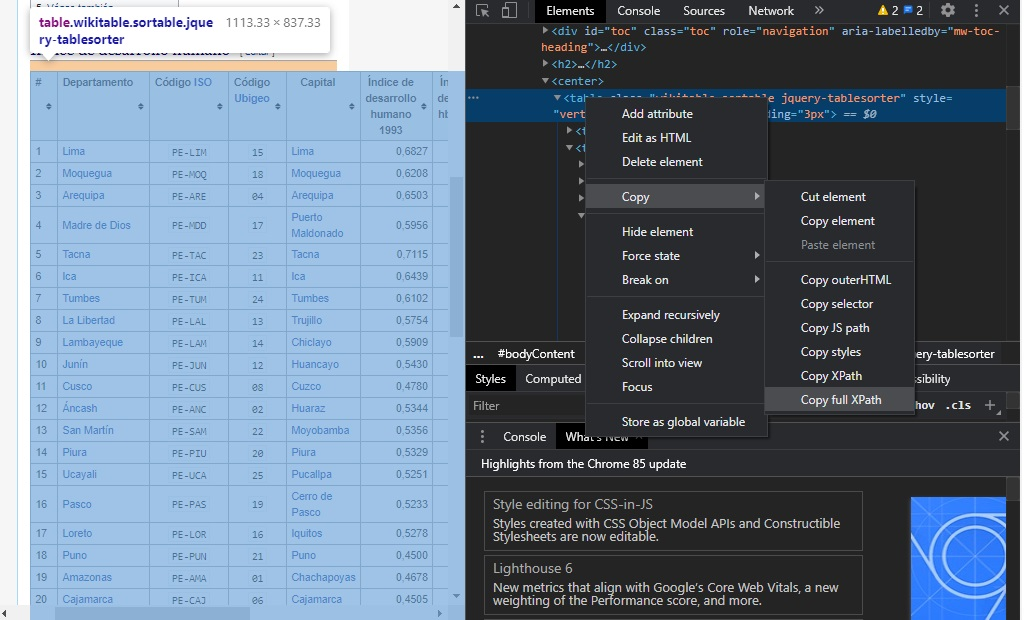
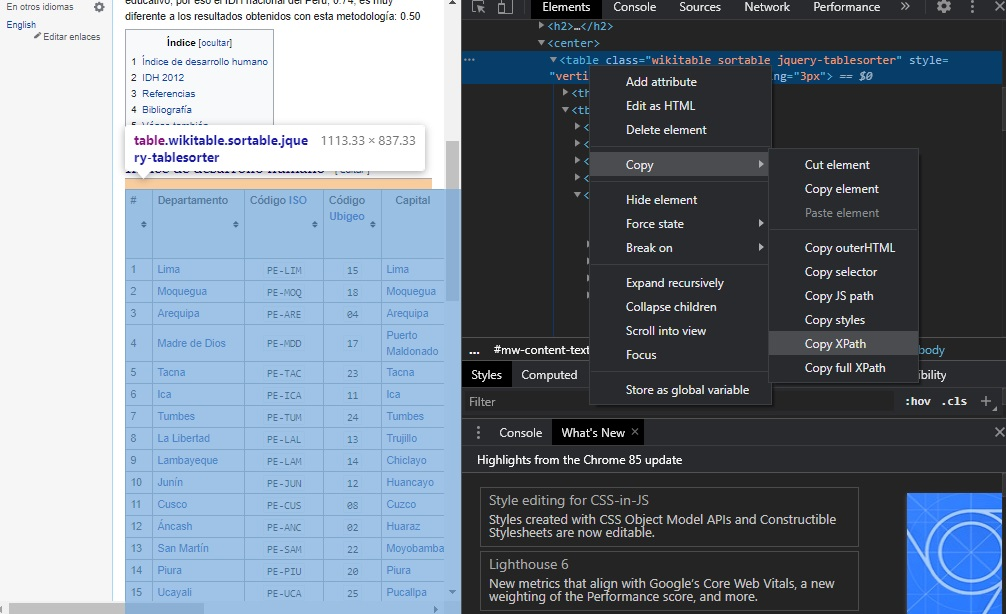
a

diff --git a/content/courses/Manual/3.5 scrap.md b/content/courses/Manual/3.5 scrap.md
@@ -56,7 +56,7 @@ Pues bien, luego de poner click derecho sobre nuestra tabla vamos ubicando el cu
 
 ![Image](/cursos/3-5-3.jpg)
 
-Luego de eso, damos click derecho sobre ese código, seleccionamos *Copy* y *Copy full Xpath*.
+Luego de eso, damos click derecho sobre ese código, seleccionamos *Copy* y *Copy Xpath*.
 
 ![Image](/cursos/3-5-4.jpg)
 
@@ -64,7 +64,7 @@ El *Xpath* es como si fuese una ubicación del objeto que queremos extraer dentr
 
 Vemos que en este caso lo que copiamos es lo siguiente: 
 
-  /html/body/div[3]/div[3]/div[5]/div[1]/center/table
+![Image](/cursos/3-5-5.jpg)
 
 ## Paso 3: Utilizar el paquete *htmltab*
 
@@ -75,7 +75,11 @@ Una vez identificado la dirección de la página web y el *Xpath* del elemento q
 Creamos dos objetos. Primero un objeto que sea el link de la página web y otro objeto que sea el código Xpath.
 
     link_de_pagina= "https://es.wikipedia.org/wiki/Anexo:Departamentos_del_Per%C3%BA_por_IDH"
-    codigoXPATH ="/html/body/div[3]/div[3]/div[5]/div[1]/center/table"
+    codigoXPATH ='//*[@id="mw-content-text"]/div[1]/center/table'
+
+{{% alert note %}}
+Cuidado: Si observas bien, en un caso hemos usado las "" y en otro ''. Debes recordar que en el caso del Xpath vamos a utilizar las comillas simples. Estas se pueden incluir presionando ALT + 39.
+{{% /alert %}}
 
 Luego, aplicamos la función htmltab en la cual le indicamos, en primer lugar, la dirección de la página (doc = link_de_página) y la ubicación del objeto que queremos extraer (which =codigoXPATH). A la base de datos extraída le daremos el nombre de data_IDH
 
@@ -98,4 +102,22 @@ Para finalizar vemos que en la parte superior derecha de nuestro entorno de trab
     ## [11] "Ã\215ndice de desarrollo humano 2012 â\200‹"
     ## [12] "Ã\215ndice de desarrollo humano 2019 â\200‹"
 
-Ya tenemos nuestra tabla de IDH como un objeto en nuestro R Studio. 
+También le podemos aplicar el comando str() para ver la estructura de nuestro data.frame:
+
+    str(data_IDH)
+
+    ## 'data.frame':    24 obs. of  12 variables:
+    ##  $ #                                    : chr  "1" "2" "3" "4" ...
+    ##  $ Departamento                         : chr  "Lima" "Moquegua" "Arequipa" "Madre de Dios" ...
+    ##  $ CÃ³digoÂ ISO                         : chr  "PE-LIM" "PE-MOQ" "PE-ARE" "PE-MDD" ...
+    ##  $ CÃ³digo Ubigeo                       : chr  "15" "18" "04" "17" ...
+    ##  $ Capital                              : chr  "Lima" "Moquegua" "Arequipa" "Puerto Maldonado" ...
+    ##  $ Ãndice de desarrollo humano 1993    : chr  "0,6827" "0,6208" "0,6503" "0,5956" ...
+    ##  $ Ãndice de desarrollo hbr/>2000      : chr  "0,7440" "0,6661" "0,6352" "0,6206" ...
+    ##  $ Ãndice de desarrollo humano 2003    : chr  "0,7189" "0,6499" "0,6526" "0,6010" ...
+    ##  $ Ãndice de desarrollo humano 2005    : chr  "0,7039" "0,6435" "0,6463" "0,5997" ...
+    ##  $ Ãndice de desarrollo humano 2007    : chr  "0,6788" "0,6532" "0,6479" "0,6304" ...
+    ##  $ Ãndice de desarrollo humano 2012 â€‹: chr  "0,6340" "0,6215" "0,5781" "0,5582" ...
+    ##  $ Ãndice de desarrollo humano 2019 â€‹: chr  "0,7073" "0,6589" "0,6425" "0,6136" ...
+
+Ya tenemos nuestra data de IDH como un objeto en nuestro R Studio. 
